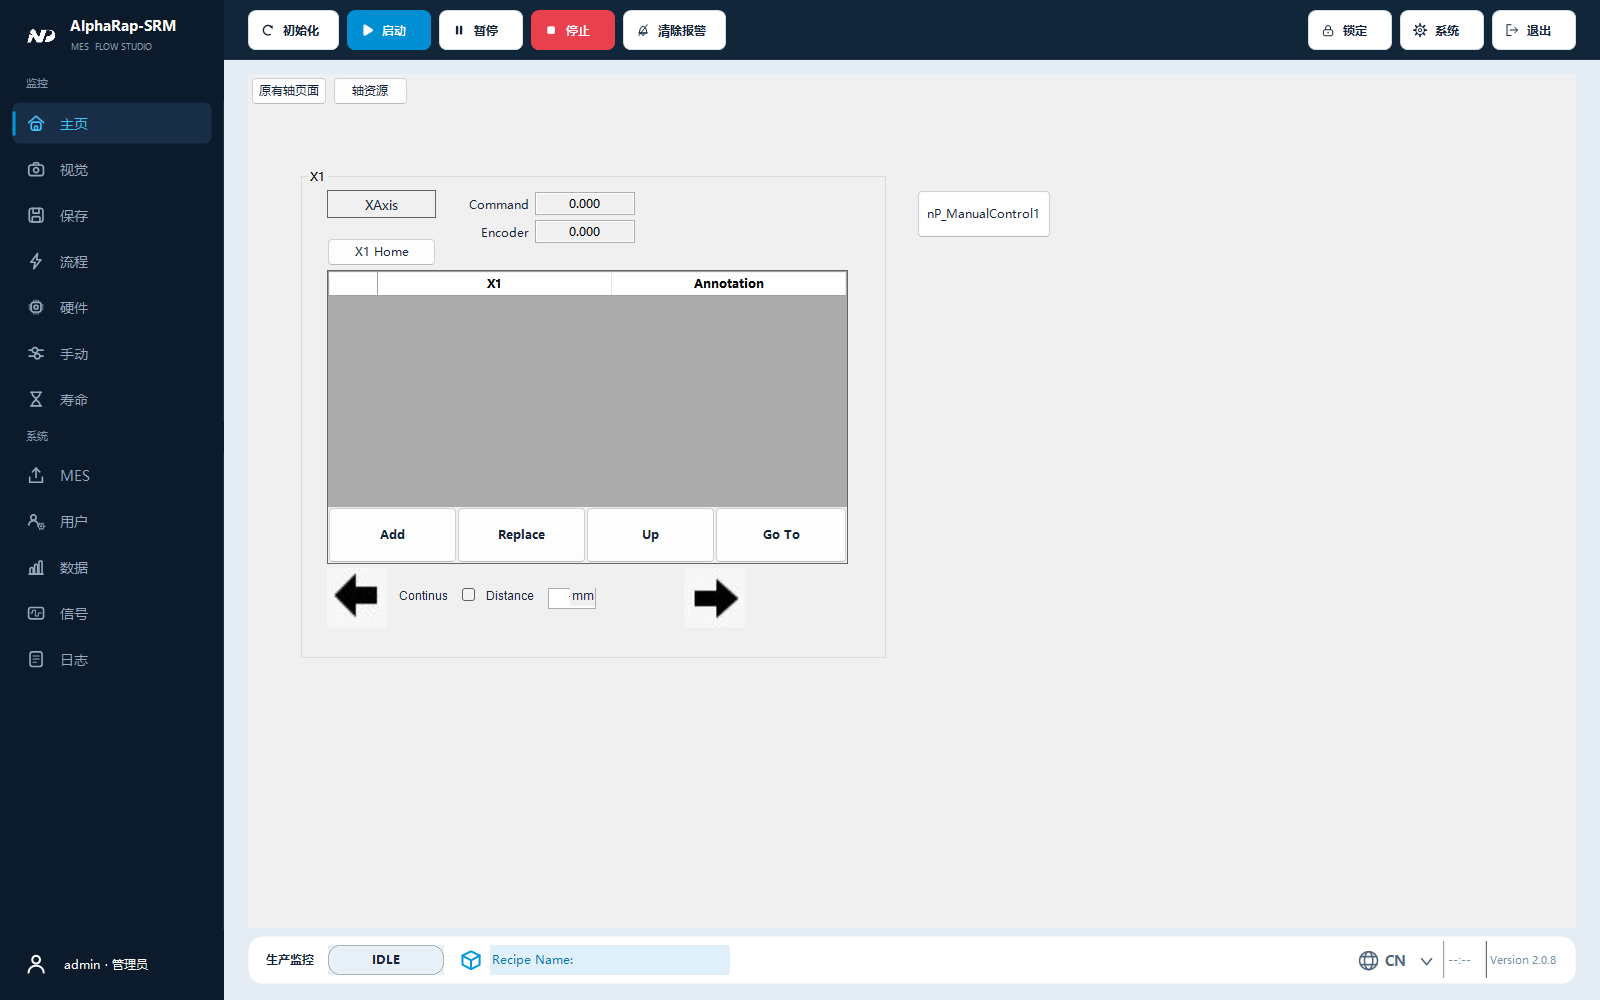
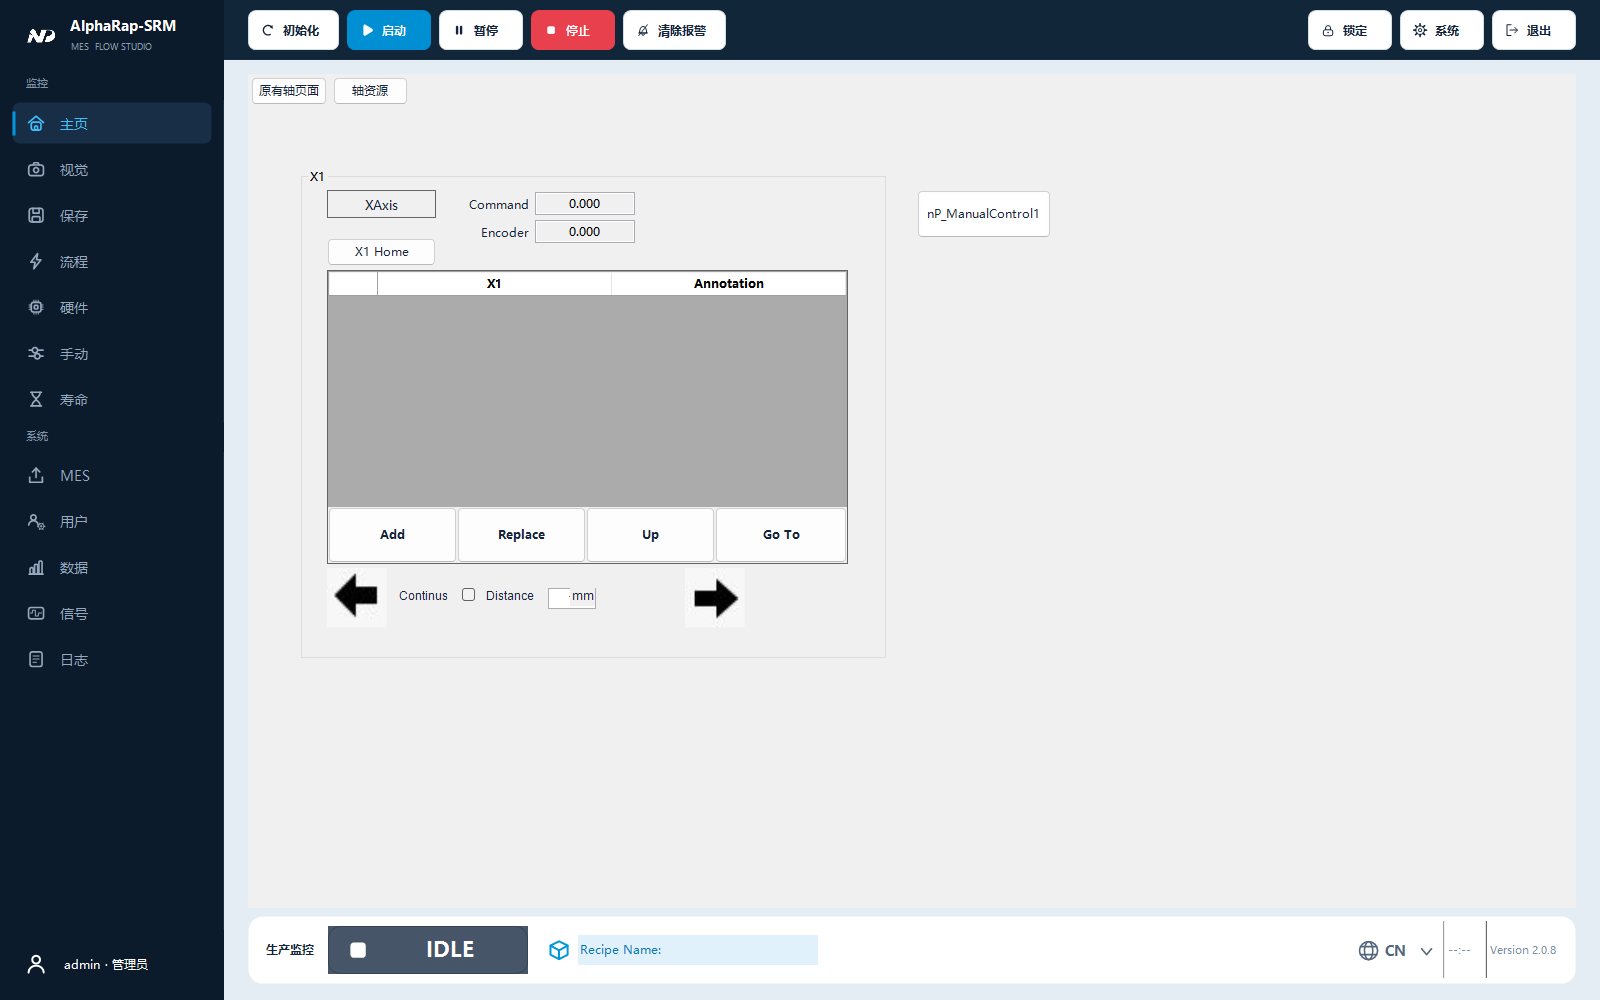
fix(ui): 放大底部整机状态牌并增加状态图标
将底部状态牌从 116x30 放大到最小 200x48，使用 16pt 粗体和 32px 缓存矢量图标；长文案按文字宽度扩展，底栏预留高度，避免挤压配方和语言入口。

待机、初始化、运行、暂停和报警使用不同颜色与图形，报警使用红底白字及警示三角。沿用现有三语文案、报警优先级、条数、悬停详情和点击回首页的行为。

验证：Debug/x64 编译通过；主界面回归 10/10，覆盖三语、三种尺寸及六种状态显示，并复核 42 页面/579 文本控件。设计器兼容检查 14/15，当前工程 FlowDataMethods.cs 业务类被标记为窗体；修改前程序集复核也是同一失败，本次保留工程元数据。离线测试未连接或操作设备。

已备份并更新原 Debug EXE/PDB，未更换设备 DLL 或配置。仅暂存本次状态牌的设计器属性，保留用户其他未提交界面编辑。同步界面预览与使用说明。

Changed region(s): [[0.1562, 0.899, 1.0, 0.992]]

diff --git a/AlphaRap/MainForm.cs b/AlphaRap/MainForm.cs
@@ -1144,26 +1144,22 @@ int nheightEllipse
         }
 
         // ---------------- 机台状态徽章 ----------------
-        // 整块填满状态色。原来是"深藏蓝底 + 左侧 6px 竖条"，而 IDLE 的灰蓝竖条压在深藏蓝上
-        // 几乎看不见 ⇒ 远处根本看不出机台在什么状态。整块上色后一眼可辨。
-        // 亮底配深字、红底配白字；对比度都按 WCAG 算过（括号里是实测值）。
-        private static readonly Color StatusIdleFill = Color.FromArgb(148, 163, 184);   // 灰蓝：待机（深字 5.5:1）
-        private static readonly Color StatusInitFill = Color.FromArgb(56, 158, 226);    // 亮蓝：初始化（深字 4.8:1）
-        private static readonly Color StatusRunFill = Color.FromArgb(52, 199, 89);      // 绿：运行（深字 7.3:1）
-        private static readonly Color StatusPauseFill = Color.FromArgb(250, 196, 21);   // 琥珀：暂停（深字 9.2:1）
-        private static readonly Color StatusAlarmFill = Color.FromArgb(206, 38, 38);    // 红：报警（白字 5.3:1）
+        private static readonly Color StatusIdleFill = Color.FromArgb(71, 85, 105);
+        private static readonly Color StatusInitFill = Color.FromArgb(4, 108, 182);
+        private static readonly Color StatusRunFill = Color.FromArgb(22, 130, 67);
+        private static readonly Color StatusPauseFill = Color.FromArgb(250, 196, 21);
+        private static readonly Color StatusAlarmFill = Color.FromArgb(206, 38, 38);
 
         /// <summary>亮底上的深字。</summary>
         private static readonly Color StatusDarkInk = Color.FromArgb(16, 30, 46);
-        /// <summary>红底上的白字。</summary>
+        /// <summary>深色状态底上的白字。</summary>
         private static readonly Color StatusWhiteInk = Color.White;
 
-        /// <summary>徽章左右内边距（96 DPI 设计值）——决定胶囊比文字宽多少。</summary>
-        private const int StatusPadX = 12;
-        /// <summary>徽章最小宽度（96 DPI 设计值），短文案也别缩成一小块。</summary>
-        private const int StatusMinWidth = 106;
-        /// <summary>当前填充色（MachineStatus_Paint 画描边时用）。</summary>
-        private Color _statusFill = StatusIdleFill;
+        /// <summary>短文案状态牌的最小宽度（96 DPI 设计值）。</summary>
+        private const int StatusMinWidth = 200;
+        /// <summary>状态图标的边长（96 DPI 设计值）。</summary>
+        private const int StatusIconSize = 32;
+        private AppIcon _statusIcon = AppIcon.Stop;
 
         // 状态文案缓存：语言或初始化状态变化时重建
         private Dictionary<RunMode, string> _statusTextMap;
@@ -1173,6 +1169,7 @@ int nheightEllipse
         private string _lastAlarmTip;
         private readonly ToolTip _statusTip = new ToolTip();
 
+        /// <summary>按报警优先级和整机运行模式刷新状态牌及报警提示。</summary>
         private void UpdateMachineStatus()
         {
             if (_statusTextMap == null || _statusTextLang != SysPara.LanguageShow
@@ -1190,7 +1187,7 @@ int nheightEllipse
             if (TryGetActiveErrors(out errorCount, out latestError))
             {
                 SetStatusLook(StatusAlarmFill, StatusWhiteInk,
-                    errorCount > 1 ? _statusAlarmText + "  ×" + errorCount : _statusAlarmText);
+                    errorCount > 1 ? _statusAlarmText + "  ×" + errorCount : _statusAlarmText, AppIcon.Alarm);
                 if (latestError != _lastAlarmTip)
                 {
                     _lastAlarmTip = latestError;
@@ -1208,50 +1205,38 @@ int nheightEllipse
             string statusText;
             if (!_statusTextMap.TryGetValue(SysPara.SystemMode, out statusText))
             {
-                SetStatusLook(StatusIdleFill, StatusDarkInk, "Unknown status");
+                SetStatusLook(StatusIdleFill, StatusWhiteInk, "Unknown status", AppIcon.Stop);
                 return;
             }
             switch (SysPara.SystemMode)
             {
-                case RunMode.RUN: SetStatusLook(StatusRunFill, StatusDarkInk, statusText); break;
-                case RunMode.PAUSE: SetStatusLook(StatusPauseFill, StatusDarkInk, statusText); break;
+                case RunMode.RUN: SetStatusLook(StatusRunFill, StatusWhiteInk, statusText, AppIcon.Run); break;
+                case RunMode.PAUSE: SetStatusLook(StatusPauseFill, StatusDarkInk, statusText, AppIcon.Pause); break;
                 case RunMode.INITIAL:
-                    // 初始化中 / 初始化完成（就绪）都是蓝色，文字区分两者
-                    SetStatusLook(StatusInitFill, StatusDarkInk, statusText); break;
-                default: SetStatusLook(StatusIdleFill, StatusDarkInk, statusText); break;
+                    SetStatusLook(StatusInitFill, StatusWhiteInk, statusText, AppIcon.Reset); break;
+                default: SetStatusLook(StatusIdleFill, StatusWhiteInk, statusText, AppIcon.Stop); break;
             }
         }
 
-        /// <summary>
-        /// 设置徽章外观：整块填状态色 + 深字（红底时白字）。
-        /// 宽度跟着文字走 —— 状态名在不同语言下长短差很多（西语「Estado inicialización」在 22pt 下
-        /// 300+px），原来固定 220px 加 AutoEllipsis 会把状态名截掉，等于白装一个状态灯。
-        /// 只在值变化时赋值并重绘，避免每秒刷新造成闪烁。
-        /// </summary>
-        private void SetStatusLook(Color fill, Color ink, string text)
+        /// <summary>设置状态颜色、图标及文案，按文字和图标预留宽度，限制长文案占用的底栏空间。</summary>
+        private void SetStatusLook(Color fill, Color ink, string text, AppIcon icon)
         {
             if (MachineStatus.BackColor != fill) MachineStatus.BackColor = fill;
             if (MachineStatus.ForeColor != ink) MachineStatus.ForeColor = ink;
             if (MachineStatus.Text != text) MachineStatus.Text = text;
 
-            int w = UiTheme.Dpi(StatusMinWidth);
-            try
-            {
-                int need = TextRenderer.MeasureText(text ?? "", MachineStatus.Font).Width
-                           + UiTheme.Dpi(StatusPadX * 2);
-                if (need > w) w = Math.Min(need, UiTheme.Dpi(200));
-            }
-            catch { }
+            int need = TextRenderer.MeasureText(text ?? "", MachineStatus.Font).Width + MachineStatus.Padding.Horizontal;
+            int w = Math.Max(UiTheme.Dpi(StatusMinWidth), Math.Min(need, UiTheme.Dpi(360)));
             if (MachineStatus.Width != w) MachineStatus.Width = w;
 
-            if (_statusFill != fill)
+            if (_statusIcon != icon)
             {
-                _statusFill = fill;
+                _statusIcon = icon;
                 MachineStatus.Invalidate();
             }
         }
 
-        /// <summary>徽章描边：亮底压在品牌蓝顶栏上时给一条半透明深边，轮廓更清楚。</summary>
+        /// <summary>绘制状态牌轮廓与独立图标，文字区域由标签内边距留出。</summary>
         private void MachineStatus_Paint(object sender, PaintEventArgs e)
         {
             try
@@ -1261,6 +1246,10 @@ int nheightEllipse
                 using (GraphicsPath path = UiKit.RoundRect(r, UiTheme.Dpi(12)))
                 using (Pen p = new Pen(Color.FromArgb(70, 8, 20, 36), 1f))
                     e.Graphics.DrawPath(p, path);
+                int iconSize = UiTheme.Dpi(StatusIconSize);
+                Image icon = AppIcons.Get(_statusIcon, iconSize, MachineStatus.ForeColor);
+                if (icon != null)
+                    e.Graphics.DrawImageUnscaled(icon, UiTheme.Dpi(14), (MachineStatus.Height - iconSize) / 2);
             }
             catch { }
         }

diff --git a/tests/MainDashboard/Regression.cs b/tests/MainDashboard/Regression.cs
@@ -92,6 +92,7 @@ internal static class DashboardProbe
                 Application.DoEvents();
                 Console.WriteLine("  Layout");
                 Layout(frame);
+                CheckMachineStatus(frame, size, language);
                 foreach (string field in new[] { "tableLayoutPanel_Main", "tableLayoutPanel2", "Panl_PictureShowTop", "Panl_PictureShowDown", "panel_PictureShowLeft", "panel_PictureShowRight" })
                     CheckChildren(Field<Control>(frame, field));
                 CheckChildren(Field<Control>(home, "kpiLayout"));
@@ -113,6 +114,7 @@ internal static class DashboardProbe
                 CheckClick(frame, "MENU_Save", "SaveData_Click"); CheckClick(frame, "MENU_Reset", "MENU_Reset_Click");
                 CheckClick(frame, "MENU_Run", "btStart_Click"); CheckClick(frame, "MENU_Pause", "btPause_Click");
                 CheckClick(frame, "MENU_Stop", "btStop_Click"); CheckClick(frame, "AlarmReset", "btAlarmReset_Click");
+                CheckClick(frame, "MachineStatus", "DashboardAlarm_Click");
                 Check(Field<Control>(home, "lblKpiOkValue").Text.Replace(",", "").Replace(" ", "") == "1236", "Good-product count was not rendered.");
                 Check(Field<Control>(home, "lblKpiInputValue").Text.Replace(",", "").Replace(" ", "") == "1248", "Input count was not rendered.");
                 using (Bitmap image = new Bitmap(frame.Width, frame.Height))
@@ -140,6 +142,43 @@ internal static class DashboardProbe
             UiTheme.ForceDesignTimeForTest(false);
             LicenseManager.CurrentContext = previous;
         }
+    }
+
+    /// <summary>Render every machine-state appearance and require full translated text inside the enlarged footer badge.</summary>
+    private static void CheckMachineStatus(MainForm frame, Size size, int language)
+    {
+        string[,] captions = {
+            { "待机状态", "IDLE", "modo espera" },
+            { "正在初始化状态", "INITIAL", "Estado inicialización" },
+            { "初始化完成", "INITIAL Completed", "cargando terminado" },
+            { "运行状态", "RUNNING", "CORRER" },
+            { "暂停状态", "PAUSE", "Estado suspendido" },
+            { "设备报警  ×2", "ALARM  ×2", "ALARMA  ×2" }
+        };
+        string[] colors = { "StatusIdleFill", "StatusInitFill", "StatusInitFill", "StatusRunFill", "StatusPauseFill", "StatusAlarmFill" };
+        AppIcon[] icons = { AppIcon.Stop, AppIcon.Reset, AppIcon.Reset, AppIcon.Run, AppIcon.Pause, AppIcon.Alarm };
+        Label badge = Field<Label>(frame, "MachineStatus");
+        Check(badge.Height >= 48 && badge.Font.SizeInPoints >= 16, "The machine state is too small to read at a glance.");
+        for (int state = 0; state < colors.Length; state++)
+        {
+            Color fill = (Color)typeof(MainForm).GetField(colors[state], BindingFlags.Static | BindingFlags.NonPublic).GetValue(null);
+            Color ink = state == 4 ? Color.FromArgb(16, 30, 46) : Color.White;
+            Invoke(frame, "SetStatusLook", fill, ink, captions[state, language], icons[state]);
+            Layout(Field<Control>(frame, "tableLayoutPanel2"));
+            CheckChildren(Field<Control>(frame, "tableLayoutPanel2"));
+            Size text = TextRenderer.MeasureText(badge.Text, badge.Font);
+            Check(text.Width <= badge.ClientSize.Width - badge.Padding.Horizontal && text.Height <= badge.ClientSize.Height,
+                "Translated machine state is clipped: " + badge.Text);
+            if (size.Width != 1280) continue;
+            using (Bitmap image = new Bitmap(badge.Width, badge.Height))
+            {
+                badge.DrawToBitmap(image, new Rectangle(Point.Empty, image.Size));
+                image.Save(Path.Combine(outputRoot, "machine-state-" + state + "-" + language + ".png"));
+            }
+        }
+        Color idle = (Color)typeof(MainForm).GetField("StatusIdleFill", BindingFlags.Static | BindingFlags.NonPublic).GetValue(null);
+        Invoke(frame, "SetStatusLook", idle, Color.White, captions[0, language], AppIcon.Stop);
+        Layout(Field<Control>(frame, "tableLayoutPanel2"));
     }
 
     /// <summary>Exercise the original alarm cache and filters in the persistent main dashboard table.</summary>

diff --git a/AlphaRap/MainForm.Designer.cs b/AlphaRap/MainForm.Designer.cs
@@ -220,7 +220,7 @@
             this.tableLayoutPanel_Main.RowCount = 3;
             this.tableLayoutPanel_Main.RowStyles.Add(new System.Windows.Forms.RowStyle(System.Windows.Forms.SizeType.Absolute, 60F));
             this.tableLayoutPanel_Main.RowStyles.Add(new System.Windows.Forms.RowStyle(System.Windows.Forms.SizeType.Percent, 100F));
-            this.tableLayoutPanel_Main.RowStyles.Add(new System.Windows.Forms.RowStyle(System.Windows.Forms.SizeType.Absolute, 72F));
+            this.tableLayoutPanel_Main.RowStyles.Add(new System.Windows.Forms.RowStyle(System.Windows.Forms.SizeType.Absolute, 92F));
             this.tableLayoutPanel_Main.Size = new System.Drawing.Size(1600, 1000);
             // 
             // statusStrip2
@@ -434,7 +434,7 @@
             this.panel1.Margin = new System.Windows.Forms.Padding(24, 8, 24, 16);
             this.panel1.Padding = new System.Windows.Forms.Padding(16, 5, 12, 5);
             this.panel1.Name = "panel1";
-            this.panel1.Size = new System.Drawing.Size(1328, 48);
+            this.panel1.Size = new System.Drawing.Size(1328, 68);
             // 
             // tableLayoutPanel2
             // 
@@ -459,7 +459,7 @@
             this.tableLayoutPanel2.Name = "tableLayoutPanel2";
             this.tableLayoutPanel2.RowCount = 1;
             this.tableLayoutPanel2.RowStyles.Add(new System.Windows.Forms.RowStyle(System.Windows.Forms.SizeType.Percent, 100F));
-            this.tableLayoutPanel2.Size = new System.Drawing.Size(1300, 38);
+            this.tableLayoutPanel2.Size = new System.Drawing.Size(1300, 58);
             // 
             // picLogo
             // 
@@ -505,14 +505,15 @@
             // MachineStatus
             // 
             this.MachineStatus.AutoSize = false;
-            this.MachineStatus.BackColor = System.Drawing.Color.FromArgb(232, 240, 247);
+            this.MachineStatus.BackColor = System.Drawing.Color.FromArgb(((int)(((byte)(71)))), ((int)(((byte)(85)))), ((int)(((byte)(105)))));
             this.MachineStatus.Anchor = System.Windows.Forms.AnchorStyles.None;
-            this.MachineStatus.Font = new System.Drawing.Font("Microsoft YaHei UI", 9F, System.Drawing.FontStyle.Bold);
-            this.MachineStatus.ForeColor = System.Drawing.Color.FromArgb(((int)(((byte)(16)))), ((int)(((byte)(30)))), ((int)(((byte)(46)))));
+            this.MachineStatus.Font = new System.Drawing.Font("Microsoft YaHei UI", 16F, System.Drawing.FontStyle.Bold);
+            this.MachineStatus.ForeColor = System.Drawing.Color.White;
             this.MachineStatus.Location = new System.Drawing.Point(1231, 2);
-            this.MachineStatus.Margin = new System.Windows.Forms.Padding(6, 4, 12, 4);
+            this.MachineStatus.Margin = new System.Windows.Forms.Padding(6, 5, 16, 5);
+            this.MachineStatus.Padding = new System.Windows.Forms.Padding(60, 0, 16, 0);
             this.MachineStatus.Name = "MachineStatus_dyn";
-            this.MachineStatus.Size = new System.Drawing.Size(116, 30);
+            this.MachineStatus.Size = new System.Drawing.Size(200, 48);
             this.MachineStatus.TabIndex = 211;
             this.MachineStatus.Text = "IDLE";
             this.MachineStatus.Cursor = System.Windows.Forms.Cursors.Hand;

diff --git a/AlphaRap/Controls/AppIcons.cs b/AlphaRap/Controls/AppIcons.cs
@@ -27,7 +27,8 @@ namespace AlphaRap
         // 报警统计窗口用到的补充图标
         Minimize,           // 窗口最小化
         Chart,              // 统计（柱形）
-        Calendar            // 日期
+        Calendar,           // 日期
+        Alarm               // 报警警示
     }
 
     /// <summary>
@@ -197,6 +198,7 @@ namespace AlphaRap
                 case AppIcon.Minimize: DrawMinimize(g, c); break;
                 case AppIcon.Chart: DrawChart(g, c); break;
                 case AppIcon.Calendar: DrawCalendar(g, c); break;
+                case AppIcon.Alarm: DrawAlarm(g, c); break;
             }
         }
 
@@ -474,6 +476,17 @@ namespace AlphaRap
             }
             using (SolidBrush b = new SolidBrush(c))
                 g.FillEllipse(b, 10.8f, 14.4f, 2.4f, 2.4f);
+        }
+
+        /// <summary>报警：三角警示牌和感叹号。</summary>
+        private static void DrawAlarm(Graphics g, Color color)
+        {
+            using (Pen outline = Stroke(color))
+                g.DrawPolygon(outline, new[] { P(12f, 3f), P(22f, 21f), P(2f, 21f) });
+            using (Pen mark = Stroke(color, 2.4f))
+                g.DrawLine(mark, 12f, 9f, 12f, 14f);
+            using (SolidBrush dot = new SolidBrush(color))
+                g.FillEllipse(dot, 10.8f, 16.5f, 2.4f, 2.4f);
         }
 
         /// <summary>报警复位：铃铛 + 红色斜线（表示"解除"）</summary>

diff --git a/AlphaRap/MainForm.Frame.cs b/AlphaRap/MainForm.Frame.cs
@@ -110,12 +110,11 @@ namespace AlphaRap
             LoginText.ForeColor = Color.White;
             LoginText.Cursor = Cursors.Hand;
             LoginText.AutoEllipsis = true;
-            MachineStatus.Font = UiKit.Bold(9f);
             MachineStatus.TextAlign = ContentAlignment.MiddleCenter;
             MachineStatus.AutoSize = false;
             MachineStatus.AutoEllipsis = true;
-            MachineStatus.BackColor = Color.FromArgb(232, 240, 247);
-            MachineStatus.ForeColor = ShellInk;
+            MachineStatus.BackColor = StatusIdleFill;
+            MachineStatus.ForeColor = StatusWhiteInk;
             MachineStatus.Paint -= MachineStatus_Paint;
             MachineStatus.Paint += MachineStatus_Paint;
             languageSwitch.ForeColor = Color.FromArgb(83, 102, 125);

diff --git a/docs/DashboardRedesign.md b/docs/DashboardRedesign.md
@@ -16,6 +16,16 @@
 - 底部：设备状态、当前配方、软键盘、语言与版本。配方图标仍打开 ProductManagerForm。
 - 首页下方常驻报警表：原报警表格、全部/警告/报警筛选和历史查询直接显示。点击底部设备状态会返回首页并聚焦报警表。
 
+## 整机状态牌
+
+底部整机状态采用最小 200×48 像素的色块、16pt 粗体文字及 32 像素图标，长状态文案自动加宽，最多占用 360 像素（均为 96 DPI 设计尺寸）。底栏预留相应高度，避免与配方和语言入口重叠。
+
+待机使用灰蓝底和方形图标，初始化使用蓝底和回转箭头，运行使用绿底和运行三角，暂停使用黄底和双竖线，报警使用红底白字和警示三角。E 类报警优先于运行模式显示，报警条数、悬停详情和点击返回首页的行为沿用原入口。文案仍使用现有中英西语言包；此显示样式无需额外保存配置。
+
+以下是离线报警状态示例：
+
+![整机报警状态牌](images/machine-status-preview.png)
+
 ## 数据含义
 
 统计卡使用原生产累计数量与节拍，本小时数量放在卡片副文案中。第五张卡显示已有数据可计算的良率；目标产量和稼动率需要独立的业务数据来源。
@@ -49,3 +59,7 @@
 布局探针在设计模式构造实际窗体，解绑机器 Load 入口后显示测试窗口，检查三种语言、三个窗口尺寸、原操作事件、指标刷新和空数据，并生成截图。截图里的生产数据和设备清单属于离线测试样本。设备初始化、真实运动、IO 输出和相机采集仍需现场验证。
 
 文字巡检将 42 个应用页面及可无参创建的流程、配置编辑控件放入实际主框架，检查 579 个文本控件的浅底浅字和过小的交互字体。该检查覆盖仓库中可离线构造的页面；外部 VPP 编辑器及按现场配置创建的第三方控件仍应在实际运行时核对。
+
+状态牌验证覆盖待机、初始化中、初始化完成、运行、暂停及带条数报警的三语显示，检查文字完整性、底栏重叠和点击事件。离线渲染直接调用显示方法，不触发真实报警或设备状态切换。
+
+本次状态牌交付的主界面回归为 10/10。当前工作区的设计器兼容检查为 14/15：工程文件将 `FlowDataMethods.cs` 业务类标记为独立窗体；使用修改前的程序集复核也出现相同失败。其余设计器检查通过，本次未修改该工程元数据。

diff --git a/tests/MainDashboard/README.md b/tests/MainDashboard/README.md
@@ -8,6 +8,8 @@
 
 检查 1600×1000、1440×900、1280×800 的中文、英文、西班牙文布局；验证顶部命令、全高导航、KPI 数值与空数据、首页常驻报警表及分类筛选，以及保存/初始化/启动/暂停/停止/清除报警原事件。
 
+整机状态牌覆盖待机、初始化中、初始化完成、运行、暂停及带条数报警的三语显示，检查放大后的文字完整性、底栏布局及点击返回首页的原事件。最小窗口额外输出各状态截图 `machine-state-<状态>-<语言>.png`。测试直接调用显示方法，不改变真实运行状态或触发现场报警。
+
 另外构造 42 个应用页面及可无参创建的流程、配置编辑控件，在实际主框架下检查 579 个文本控件，防止浅色背景继承白色文字、交互控件字体过小及轴点动选项遮挡右箭头。深色导航与品牌区保留浅色文字。外部 VPP 编辑器和现场动态第三方控件不属于离线构造覆盖范围。
 
 测试通过 LicenseContext 设计态构造窗体，显式解绑 MainForm_Load 后显示离线测试窗口。设备清单、生产数量及表格示例仅在测试实例中填充，不操作设备、不保存机器配置。
